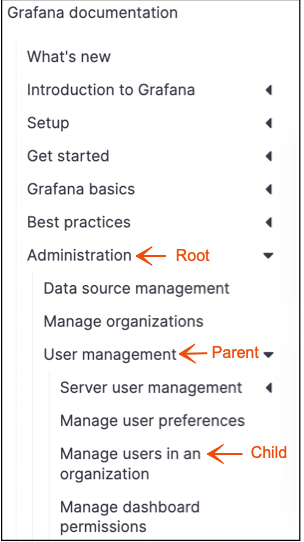
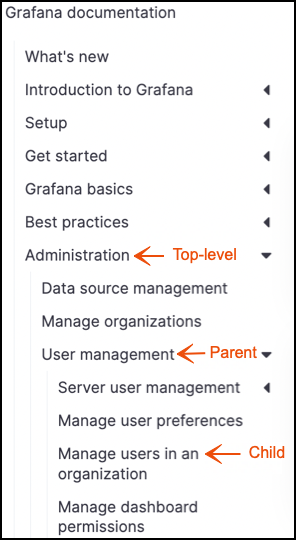
final terminology changes

diff --git a/docs/sources/writing-guide/documentation-structure/index.md b/docs/sources/writing-guide/documentation-structure/index.md
@@ -31,10 +31,10 @@ The information architecture consists of the following levels.
 
 ![Grafana table of contents](grafana-toc.png)
 
-**Root:** The root is the top-most level of the table of contents and represents groups of product features and functionality. 
-When you contribute to the docs, first identify which root item you are contributing to.
+**Top-level:** The top-most level of the table of contents represents groups of product features and functionality. 
+When you contribute to the docs, first identify which top-level entity you are contributing to.
 
-> **Note:** Do not add a root item to the table of contents. 
+> **Note:** Do not add a top-level entity to the table of contents. 
 If it is not obvious where your documentation belongs, reach out to the technical documentation team.
 
 **Parent:** Each root item contains one or more parents, which are groups of related feature content.
